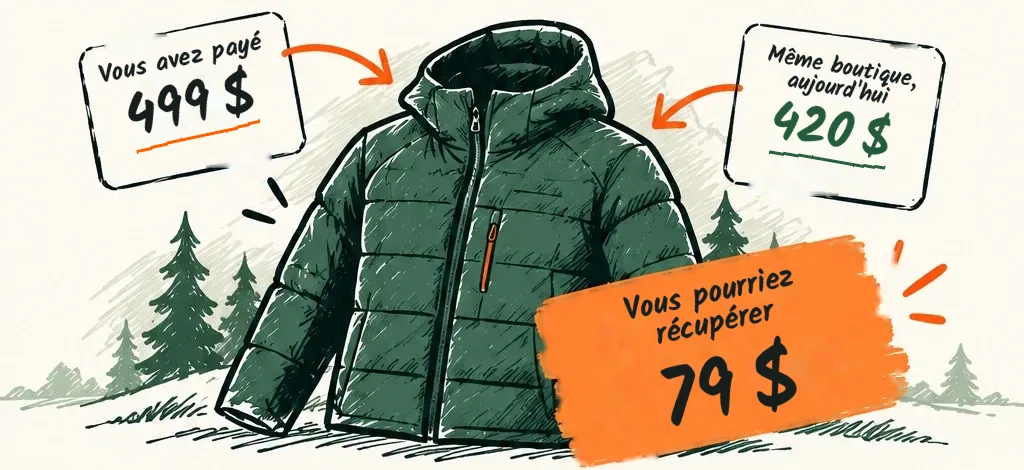
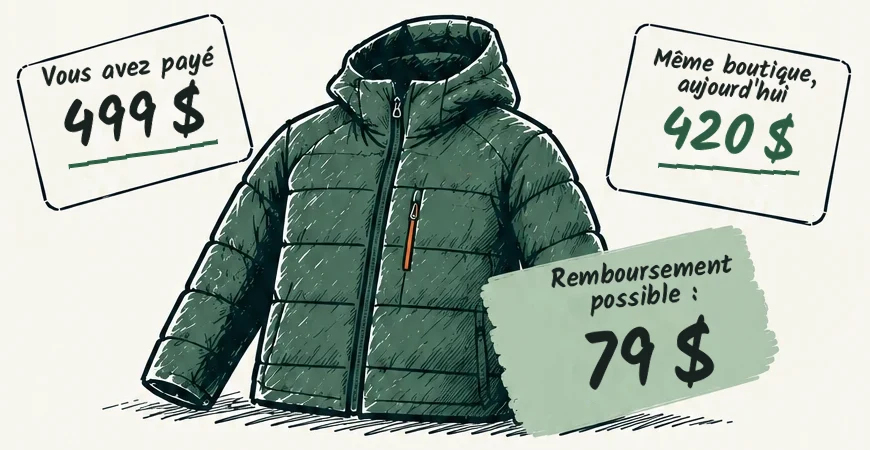
Fox Pro card: Bastien's calm green design (black headline, green notes, orange only on the button)
Claude-Session: https://claude.ai/code/session_01D5jdbyJi3PEbw56iY8fYdy

diff --git a/site/index.html b/site/index.html
@@ -375,7 +375,7 @@ input[type=text],input[type=email],input[type=search]{width:100%;font:inherit;co
 
 /* Friday email card */
 .signup{background:var(--band);color:var(--band-ink);border-radius:14px;padding:18px;margin:0 0 30px}
-.procard .proprice{margin:10px 0 12px;font-size:15px;line-height:1.4}.procard .proprice b{font-size:20px}.signup.procard{max-width:680px;margin-left:auto;margin-right:auto;box-sizing:border-box;--pc:#F6F3EC;--po:#FF5A00;--pk:#17232B;--pg:#25483D;background:var(--pc);color:var(--pk);border:1.5px solid #E6DECB;text-align:center;padding:22px 16px 18px;border-radius:18px}.procard .prok{display:flex;justify-content:center;align-items:center;gap:10px;font:700 13px/1 Inter,var(--body);letter-spacing:.08em;text-transform:uppercase;margin:0 0 12px}.procard .prok img{width:26px;height:26px}.procard .prok .fx{color:var(--pk)}.procard .prok .sep{width:1.5px;height:12px;background:#B9B2A2}.procard .prok .cs{color:var(--po)}.signup.procard h3{font:800 54px/.9 "Barlow Condensed",var(--display);color:var(--pk);margin:0 0 12px;letter-spacing:-.5px;position:relative}.procard h3 em{font-style:normal;color:var(--po);display:table;margin:0 auto;position:relative}@media(max-width:359px){.signup.procard h3{font-size:44px}}@media(min-width:600px){.signup.procard h3{font-size:72px}.procard .prosub{font-size:17px;max-width:30em}}.procard .prosub{color:#2E3A40;font:400 16px/1.45 Inter,var(--body);margin:0 auto 4px;max-width:34em}.procard .prosub u{text-decoration:none;background:linear-gradient(var(--po),var(--po)) 0 100%/100% 2px no-repeat;padding-bottom:1px}.procard .proart{position:relative;margin:6px -10px 6px;aspect-ratio:1024/470;background:var(--pc)}.procard .proart img{width:100%;height:100%;display:block;mix-blend-mode:multiply;-webkit-mask-image:linear-gradient(90deg,transparent,#000 5%,#000 95%,transparent);mask-image:linear-gradient(90deg,transparent,#000 5%,#000 95%,transparent)}.procard .prosteps{list-style:none;padding:0;margin:8px 0 16px;display:grid;grid-template-columns:repeat(3,minmax(0,1fr));align-items:start}.procard .prosteps li{display:grid;grid-template-rows:auto auto auto;justify-items:center;align-content:start;gap:6px;padding:0 8px;border-left:1px solid #E1D9C7}.procard .prosteps li:first-child{border-left:0}.procard .prosteps .ico{width:62px;height:62px;border-radius:50%;background:#EDE5D4;display:grid;place-items:center;margin-bottom:4px;position:relative}.procard .prosteps .ico svg{width:30px;height:30px}.procard .prosteps strong{display:block;font:700 16px/1.15 Inter,var(--body);color:var(--pk);min-height:1.15em}.procard .prosteps p{margin:0;font:400 13.5px/1.35 Inter,var(--body);color:#46525A}@media(max-width:359px){.procard .prosteps{grid-template-columns:minmax(0,1fr);gap:14px}.procard .prosteps li{border-left:0}}.procard .proproof{display:flex;align-items:center;gap:12px;text-align:left;background:#E6EDE3;border-radius:14px;padding:12px 14px;margin:0 0 14px;font:400 14px/1.4 Inter,var(--body);color:var(--pk)}.procard .proproof svg{flex:none;width:30px;height:26px}.procard .proproof b{font-weight:700}.procard #proForm{display:flex;flex-direction:column;gap:8px}.procard #proForm input{width:100%;margin:0;min-height:50px;border:1.5px solid #DDD5C3;border-radius:12px;background:#fff;font:16px Inter,var(--body);padding:0 14px}.procard #proForm button,.procard #proJoin{width:100%;margin:0;min-height:50px;border-radius:12px;background:var(--po);color:var(--pk);font:700 17px Inter,var(--body);border:0}@media(min-width:520px){.procard #proForm{flex-direction:row}.procard #proForm input{flex:1.6}.procard #proForm button{flex:1;width:auto}}.procard .proprice{margin:14px 0 6px;font:400 15px/1.35 Inter,var(--body);color:var(--pk)}.procard .proprice b{font:700 20px Inter,var(--body)}.procard .fine{color:#5E6762;font-size:12.5px;margin:6px 0 0}.procard .fine{line-height:1.5}.procard .fine button{color:var(--pk);font:inherit;padding:0;min-height:0;text-decoration:underline;background:none;border:0}.procard .err{color:#B3261E}.procard #proJoin{width:100%}
+.signup.procard{--pc:#F7F6EE;--pk:#0F1B1F;--pt:#2E3739;--pg:#2E5E4A;--po:#F97637;background:var(--pc);color:var(--pk);border:1px solid #E3E2D6;border-radius:16px;text-align:center;padding:24px 18px 16px;max-width:680px;margin-left:auto;margin-right:auto;box-sizing:border-box}.procard .prok{display:flex;justify-content:center;align-items:center;gap:14px;font:600 12.5px/1 Inter,var(--body);letter-spacing:.2em;text-transform:uppercase;margin:0 0 16px}.procard .prok .fx{color:var(--pk)}.procard .prok .sep{width:1px;height:16px;background:#B9BCB2}.procard .prok .cs{color:var(--pg)}.signup.procard h3{font:800 46px/.98 Inter,var(--body);letter-spacing:-.045em;color:var(--pk);margin:0 0 14px}.procard .prosub{font:400 16px/1.45 Inter,var(--body);color:var(--pt);margin:0 auto 6px;max-width:27em}.procard .proart{margin:4px -6px 10px;aspect-ratio:870/450;background:var(--pc)}.procard .proart img{width:100%;height:100%;display:block}.procard .prosteps{list-style:none;padding:0;margin:4px 0 22px;display:grid;grid-template-columns:repeat(3,minmax(0,1fr));align-items:start}.procard .prosteps li{display:flex;flex-direction:column;align-items:center;gap:6px;padding:0 6px;border-left:1px solid #DCDCD1}.procard .prosteps li:first-child{border-left:0}.procard .prosteps .ico{width:68px;height:68px;border-radius:50%;background:#E5E7DB;display:grid;place-items:center;margin-bottom:6px}.procard .prosteps .ico svg{width:36px;height:36px}.procard .prosteps strong{font:700 17px/1.15 Inter,var(--body);color:var(--pk)}.procard .prosteps p{margin:0;font:400 14px/1.35 Inter,var(--body);color:var(--pt)}@media(max-width:359px){.procard .prosteps{grid-template-columns:minmax(0,1fr);gap:16px}.procard .prosteps li{border-left:0}.signup.procard h3{font-size:40px}}@media(min-width:600px){.signup.procard{padding:30px 32px 18px}.signup.procard h3{font-size:64px}.procard .prosub{font-size:18px}}.procard #proForm{display:flex;flex-direction:column;gap:10px;margin:0}.procard .proin{position:relative;flex:1.7}.procard .proin svg{position:absolute;left:14px;top:50%;width:22px;height:22px;transform:translateY(-50%);pointer-events:none}.procard #proForm input{width:100%;margin:0;box-sizing:border-box;min-height:52px;border:1px solid #CFCFC6;border-radius:10px;background:#FCFCF9;font:16px Inter,var(--body);padding:0 14px 0 48px;color:var(--pk)}.procard #proForm button,.procard #proJoin{width:100%;margin:0;min-height:52px;border:0;border-radius:10px;background:var(--po);color:var(--pk);font:700 17px Inter,var(--body)}@media(min-width:520px){.procard #proForm{flex-direction:row}.procard #proForm button{flex:1;width:auto}}.procard .proprice{margin:18px 0 4px;font:400 14.5px/1.45 Inter,var(--body);color:var(--pt)}.procard .proprice b{display:block;font:700 18px/1.3 Inter,var(--body);color:var(--pk)}.procard .fine{color:#6B7273;font-size:12.5px;line-height:1.5;margin:8px 0 0}.procard .fine button{font:inherit;color:var(--pt);padding:0;min-height:0;background:none;border:0;text-decoration:underline}.procard .err{color:#B3261E}.procard .protag{display:flex;align-items:center;gap:12px;margin:18px 0 2px;font:500 11px/1 Inter,var(--body);letter-spacing:.22em;text-transform:uppercase;color:#44514D}.procard .protag i{flex:1;height:1px;background:#C3C7BE}.procard .protag svg{width:34px;height:30px;flex:none}
 .rcwrap{position:relative}.rcsug{display:flex;flex-direction:column;background:var(--card);border-radius:10px;overflow:hidden;margin-top:4px}.rcsug:empty{display:none}.rcsug button{all:unset;cursor:pointer;padding:11px 14px;font:500 15px/1.25 var(--body);color:var(--ink);border-top:1px solid var(--line)}.rcsug button:first-child{border-top:0}.rcsug button:active,.rcsug button:hover{background:var(--mist)}
 .runcard #suForm{flex-direction:column}.runcard #suForm input,.runcard #suForm .primary{flex:none;width:100%}.runcard #suForm .primary{min-height:48px;line-height:1.15;padding:8px 16px}
 .signup h3{font:800 24px/1.1 var(--display);margin:0 0 4px}
@@ -891,7 +891,7 @@ en:{
   junkHint:"Not there after a minute? Check Junk or Promotions (Outlook and Hotmail often file us there) and mark it \"Not junk\".",
   resend:"Send it again",resendFail:"Couldn't send just now. Try again in a minute.",resent:"Sent again. Give it a minute.",resendWait:"Just sent. Give it a minute, then check Junk.",
   otherEmail:"Use a different email",getDeals:"Get deals like these every Friday",
-  getDealsTxt:"One email, Friday morning, only gear on sale in your sizes.",perksTitle:"Free with your email",proH:"Fox Pro · coming soon",pro1:"Money back after you buy",pro2:"Phone app alerts the moment we see a watched item drop in your size",pro3:"No limit on your watchlist: follow whole models and brands",proSub:"Many stores refund the difference if they lower the price within 10 to 30 days. Fox Pro <u>watches it for you</u>.",proSoon:"Coming soon",proH1:"Money back<em>after you buy.</em>",proS1h:"You buy",proS1:"Shop like usual.",proS2h:"We watch",proS2:"Daily price checks.",proS3h:"You claim",proS3:"Get refund instructions.",proEx:"Example",proIt:"Your down jacket",proItS:"size M · bought Nov 3",proPaid:"You paid",proNow:"Same store, today",proOwe:"You're owed",proLeft:"11 days left to claim it",proProof:"In October, <b>1 in 13 items over $100 got $10+ cheaper</b> within 2 weeks. Typical drop: <b>$34</b>.",proAlso:"Also in Pro:",proA:"phone alerts the moment a watched item drops · no limit on your watchlist",proBack1:"You could get",proBack2:"$79 back",proArtAlt:"Example: you paid $499, the same store sells it for $420 today, you could get $79 back.",proPrice:(m,y)=>`$${m}/month or $${y}/year`,proFound:"Founding price, yours as long as you stay.",proJoin:"Get early access →",proFine:"No payment now. We'll email you when it opens.",proFineNew:"No payment now. We'll email you when it opens, plus the Friday deals in your size.",proThanks:"You're on the Fox Pro waitlist. We'll email you when it opens.",rcH:"What do you run in?",rcTxt:"Pick your shoe: we'll email you when it drops in your size. Plus your best deals every Friday.",rcPh:"Your shoe, e.g. Pegasus 41",rcGo:"Email me when it drops",perk1:"An alert when gear you heart drops in price",perk2:"Your best deals every Friday morning",perk3:"Your sizes and hearts on all your devices",noThanks:"No thanks",peekTitle:n=>`${n} deals in your size today`,peekTxt:"Add your email to see them all, get price-drop alerts on deals you heart, and the best ones every Friday.",peekG:"or continue with Google",email:"Email",signUp:"Sign up",
+  getDealsTxt:"One email, Friday morning, only gear on sale in your sizes.",perksTitle:"Free with your email",proH:"Fox Pro · coming soon",pro1:"Money back after you buy",pro2:"Phone app alerts the moment we see a watched item drop in your size",pro3:"No limit on your watchlist: follow whole models and brands",proSub:"Some retailers refund price drops after purchase. Fox Pro watches for them so you don't have to.",proTag:"Outfox full price",proSoon:"Coming soon",proH1:"Money back<br>after you buy.",proS1h:"You buy",proS1:"Shop like usual.",proS2h:"We watch",proS2:"Daily price checks.",proS3h:"You claim",proS3:"Get refund instructions.",proEx:"Example",proIt:"Your down jacket",proItS:"size M · bought Nov 3",proPaid:"You paid",proNow:"Same store, today",proOwe:"You're owed",proLeft:"11 days left to claim it",proProof:"In October, <b>1 in 13 items over $100 got $10+ cheaper</b> within 2 weeks. Typical drop: <b>$34</b>.",proAlso:"Also in Pro:",proA:"phone alerts the moment a watched item drops · no limit on your watchlist",proBack1:"You could get",proBack2:"$79 back",proArtAlt:"Example: you paid $499, the same store sells it for $420 today, potential refund $79.",proPrice:(m,y)=>`$${m}/month or $${y}/year`,proFound:"Founding price, yours as long as you stay.",proJoin:"Get early access →",proFine:"No payment now. We'll email you when it opens.",proFineNew:"No payment now. We'll email you when it opens, plus the Friday deals in your size.",proThanks:"You're on the Fox Pro waitlist. We'll email you when it opens.",rcH:"What do you run in?",rcTxt:"Pick your shoe: we'll email you when it drops in your size. Plus your best deals every Friday.",rcPh:"Your shoe, e.g. Pegasus 41",rcGo:"Email me when it drops",perk1:"An alert when gear you heart drops in price",perk2:"Your best deals every Friday morning",perk3:"Your sizes and hearts on all your devices",noThanks:"No thanks",peekTitle:n=>`${n} deals in your size today`,peekTxt:"Add your email to see them all, get price-drop alerts on deals you heart, and the best ones every Friday.",peekG:"or continue with Google",email:"Email",signUp:"Sign up",
   signupFine:'We\'ll email you to confirm. Unsubscribe with one tap. <a href="privacy.html">Privacy</a>',
   badEmail:"That email doesn't look right.",signupFail:m=>`Couldn't sign you up just now: ${m}`,
   emailOn:e=>`Friday email on for ${e} · <button type="button" id="stopEmail">Stop it</button>`,
@@ -1005,7 +1005,7 @@ fr:{
   junkHint:"Pas reçu après une minute? Vérifiez les courriels indésirables ou Promotions (Outlook et Hotmail nous y classent souvent) et indiquez « Pas un courriel indésirable ».",
   resend:"Renvoyer",resendFail:"Envoi impossible pour l'instant. Réessayez dans une minute.",resent:"Renvoyé. Laissez-lui une minute.",resendWait:"Tout juste envoyé. Donnez-lui une minute, puis vérifiez les indésirables.",
   otherEmail:"Utiliser un autre courriel",getDeals:"Recevez des aubaines comme celles-ci chaque vendredi",
-  getDealsTxt:"Un courriel le vendredi matin, seulement des articles en solde dans vos tailles.",perksTitle:"Gratuit avec votre courriel",proH:"Fox Pro · bientôt",pro1:"De l'argent remis après l'achat",pro2:"Alertes dans l'appli sur votre téléphone dès qu'un article suivi baisse",pro3:"Liste de suivi sans limite : suivez des modèles et des marques entiers",proSub:"Bien des boutiques remboursent la différence si elles baissent le prix dans les 10 à 30 jours. Fox Pro <u>surveille pour vous</u>.",proSoon:"Bientôt",proH1:"De l'argent remis<em>après l'achat.</em>",proS1h:"Vous achetez",proS1:"Comme d'habitude.",proS2h:"On surveille",proS2:"Prix vérifiés chaque jour.",proS3h:"Vous réclamez",proS3:"Instructions de remboursement fournies.",proEx:"Exemple",proIt:"Votre manteau en duvet",proItS:"taille M · acheté le 3 nov.",proPaid:"Vous avez payé",proNow:"Même boutique, aujourd'hui",proOwe:"On vous doit",proLeft:"Encore 11 jours pour le réclamer",proProof:"En octobre, <b>1 article de plus de 100 $ sur 13 a baissé de 10 $ ou plus</b> en 2 semaines. Baisse typique : <b>34 $</b>.",proAlso:"Aussi dans Pro :",proA:"alertes sur votre téléphone dès qu'un article suivi baisse · liste de suivi sans limite",proBack1:"Vous pourriez récupérer",proBack2:"79 $",proArtAlt:"Exemple : vous avez payé 499 $, la même boutique le vend 420 $ aujourd'hui, vous pourriez récupérer 79 $.",proPrice:(m,y)=>`${m} $/mois ou ${y} $/an`,proFound:"Prix fondateur, garanti tant que vous restez.",proJoin:"Accès anticipé →",proFine:"Aucun paiement maintenant. On vous écrit à l'ouverture.",proFineNew:"Aucun paiement maintenant. On vous écrit à l'ouverture, avec les aubaines du vendredi dans votre taille.",proThanks:"Vous êtes sur la liste d'attente de Fox Pro. On vous écrit à l'ouverture.",rcH:"Vous courez avec quoi?",rcTxt:"Choisissez votre chaussure : on vous écrit quand elle baisse à votre taille. En prime, vos meilleures aubaines chaque vendredi.",rcPh:"Votre chaussure (ex. Pegasus 41)",rcGo:"M'avertir d'une baisse",perk1:"Une alerte quand un coup de cœur baisse de prix",perk2:"Vos meilleures aubaines chaque vendredi matin",perk3:"Vos tailles et vos coups de cœur sur tous vos appareils",noThanks:"Non merci",peekTitle:n=>`${n} aubaines dans vos tailles aujourd'hui`,peekTxt:"Entrez votre courriel pour toutes les voir, être averti des baisses de prix sur vos coups de cœur et recevoir les meilleures chaque vendredi.",peekG:"ou continuer avec Google",email:"Courriel",signUp:"M'abonner",
+  getDealsTxt:"Un courriel le vendredi matin, seulement des articles en solde dans vos tailles.",perksTitle:"Gratuit avec votre courriel",proH:"Fox Pro · bientôt",pro1:"De l'argent remis après l'achat",pro2:"Alertes dans l'appli sur votre téléphone dès qu'un article suivi baisse",pro3:"Liste de suivi sans limite : suivez des modèles et des marques entiers",proSub:"Certaines boutiques remboursent la différence si le prix baisse après l'achat. Fox Pro surveille pour vous.",proTag:"Flairez les aubaines",proSoon:"Bientôt",proH1:"De l'argent remis<br>après l'achat.",proS1h:"Vous achetez",proS1:"Comme d'habitude.",proS2h:"On surveille",proS2:"Prix vérifiés chaque jour.",proS3h:"Vous réclamez",proS3:"Instructions de remboursement fournies.",proEx:"Exemple",proIt:"Votre manteau en duvet",proItS:"taille M · acheté le 3 nov.",proPaid:"Vous avez payé",proNow:"Même boutique, aujourd'hui",proOwe:"On vous doit",proLeft:"Encore 11 jours pour le réclamer",proProof:"En octobre, <b>1 article de plus de 100 $ sur 13 a baissé de 10 $ ou plus</b> en 2 semaines. Baisse typique : <b>34 $</b>.",proAlso:"Aussi dans Pro :",proA:"alertes sur votre téléphone dès qu'un article suivi baisse · liste de suivi sans limite",proBack1:"Vous pourriez récupérer",proBack2:"79 $",proArtAlt:"Exemple : vous avez payé 499 $, la même boutique le vend 420 $ aujourd'hui, remboursement possible de 79 $.",proPrice:(m,y)=>`${m} $/mois ou ${y} $/an`,proFound:"Prix fondateur, garanti tant que vous restez.",proJoin:"Accès anticipé →",proFine:"Aucun paiement maintenant. On vous écrit à l'ouverture.",proFineNew:"Aucun paiement maintenant. On vous écrit à l'ouverture, avec les aubaines du vendredi dans votre taille.",proThanks:"Vous êtes sur la liste d'attente de Fox Pro. On vous écrit à l'ouverture.",rcH:"Vous courez avec quoi?",rcTxt:"Choisissez votre chaussure : on vous écrit quand elle baisse à votre taille. En prime, vos meilleures aubaines chaque vendredi.",rcPh:"Votre chaussure (ex. Pegasus 41)",rcGo:"M'avertir d'une baisse",perk1:"Une alerte quand un coup de cœur baisse de prix",perk2:"Vos meilleures aubaines chaque vendredi matin",perk3:"Vos tailles et vos coups de cœur sur tous vos appareils",noThanks:"Non merci",peekTitle:n=>`${n} aubaines dans vos tailles aujourd'hui`,peekTxt:"Entrez votre courriel pour toutes les voir, être averti des baisses de prix sur vos coups de cœur et recevoir les meilleures chaque vendredi.",peekG:"ou continuer avec Google",email:"Courriel",signUp:"M'abonner",
   signupFine:'On vous écrit pour confirmer. Désabonnement en un clic. <a href="privacy.html">Confidentialité</a>',
   badEmail:"Ce courriel ne semble pas valide.",signupFail:m=>`Impossible de vous abonner pour l'instant : ${m}`,
   emailOn:e=>`Courriel du vendredi activé pour ${e} · <button type="button" id="stopEmail">L'arrêter</button>`,
@@ -2564,20 +2564,21 @@ const proArm=()=>ANA.arm("pro"),proPrices=()=>proArm()==="B"?[5,49]:[3,29];
 function proHTML(member){
   if(!proOn())return "";const [m,y]=proPrices();
   if(!proSeen){proSeen=true;ana("signup-step",`pro-view|${proArm()}`)}
-  const mo=v=>LANG==="fr"?v+" $":"$"+v;
-  return `<section class="signup procard" aria-labelledby="proTitle"><div class="prok"><img src="favicon.svg" alt="" width="26" height="26"><span class="fx">Fox Pro</span><i class="sep"></i><span class="cs">${t("proSoon")}</span></div>
+  const ic=(d,o)=>`<span class="ico"><svg viewBox="0 0 32 32" fill="none" stroke="#0F1B1F" stroke-width="2.2" stroke-linecap="round" stroke-linejoin="round">${d}${o?o.replace(/STROKE/g,'stroke="#F97637"'):""}</svg></span>`;
+  const tree=`<svg viewBox="0 0 34 30" aria-hidden="true"><path d="M11 2 4 13h3.5L2 22h7v6h4v-6h7l-5.5-9H18z" fill="#2E5E4A"/><path d="M25 9l-5 8h2.5L19 23h5v5h2.5v-5h5l-3.5-6H31z" fill="#2E5E4A"/></svg>`;
+  return `<section class="signup procard" aria-labelledby="proTitle"><div class="prok"><span class="fx">Fox Pro</span><i class="sep"></i><span class="cs">${t("proSoon")}</span></div>
     <h3 id="proTitle">${t("proH1")}</h3>
     <p class="prosub">${t("proSub")}</p>
-    <div class="proart" role="img" aria-label="${esc(t("proArtAlt"))}"><img src="img/pro-jacket${LANG==="fr"?"-fr":""}.webp" alt="" width="1024" height="470" loading="lazy"></div>
-    <ol class="prosteps"><li><span class="ico"><svg viewBox="0 0 24 24" fill="none" stroke="#17232B" stroke-width="1.9" stroke-linecap="round" stroke-linejoin="round"><path d="M2.5 4h2.3l2.3 10.4a1.4 1.4 0 0 0 1.4 1.1h8.8a1.4 1.4 0 0 0 1.4-1L21 7.5H6"/><circle cx="9.5" cy="19.5" r="1.4" stroke="#FF5A00"/><circle cx="17" cy="19.5" r="1.4" stroke="#FF5A00"/></svg></span><strong>${t("proS1h")}</strong><p>${t("proS1")}</p></li><li><span class="ico"><svg viewBox="0 0 24 24" fill="none" stroke="#17232B" stroke-width="1.9" stroke-linecap="round" stroke-linejoin="round"><circle cx="10.5" cy="10.5" r="6.5"/><path d="M15.5 15.5 21 21"/></svg></span><strong>${t("proS2h")}</strong><p>${t("proS2")}</p></li><li><span class="ico"><svg viewBox="0 0 24 24" fill="none" stroke="#17232B" stroke-width="1.9" stroke-linecap="round" stroke-linejoin="round"><path d="M6 16v-5a6 6 0 0 1 12 0v5l1.6 2H4.4z"/><path d="M10 20.5a2 2 0 0 0 4 0" stroke="#FF5A00"/></svg></span><strong>${t("proS3h")}</strong><p>${t("proS3")}</p></li></ol>
-    ${COUNTRY==="us"?"":`<p class="proproof"><svg viewBox="0 0 30 26"><rect x="1" y="14" width="7" height="11" rx="1" fill="#25483D"/><rect x="11.5" y="8" width="7" height="17" rx="1" fill="#17232B"/><rect x="22" y="1" width="7" height="24" rx="1" fill="#FF5A00"/></svg><span>${t("proProof")}</span></p>`}
+    <div class="proart" role="img" aria-label="${esc(t("proArtAlt"))}"><img src="img/pro-jacket${LANG==="fr"?"-fr":""}.webp" alt="" width="870" height="450" loading="lazy"></div>
+    <ol class="prosteps"><li>${ic('<path d="M3 5h3.5l3 13.5h14L27 9H8"/>','<circle cx="12" cy="24.5" r="1.8" STROKE/><circle cx="21.5" cy="24.5" r="1.8" STROKE/>')}<strong>${t("proS1h")}</strong><p>${t("proS1")}</p></li><li>${ic('<circle cx="13.5" cy="13.5" r="8.5"/><path d="M20 20l7.5 7.5"/>')}<strong>${t("proS2h")}</strong><p>${t("proS2")}</p></li><li>${ic('<path d="M8 21v-7a8 8 0 0 1 16 0v7l2.5 3h-21z"/><path d="M16 3v2.5"/>','<path d="M13.5 27.5a2.5 2.5 0 0 0 5 0" STROKE/>')}<strong>${t("proS3h")}</strong><p>${t("proS3")}</p></li></ol>
     ${member?`<button class="primary" type="button" id="proJoin">${t("proJoin")}</button>`
       :`<form id="proForm" novalidate><label for="proEmail" class="hidden">${t("email")}</label>
-      <input id="proEmail" type="email" autocomplete="email" inputmode="email" placeholder="you@example.com" value="${esc(state.email)}" required>
+      <span class="proin"><svg viewBox="0 0 24 24" fill="none" stroke="#6E7774" stroke-width="1.6" aria-hidden="true"><rect x="3" y="5.5" width="18" height="13" rx="1.5"/><path d="m3.5 6.5 8.5 6.5 8.5-6.5"/></svg><input id="proEmail" type="email" autocomplete="email" inputmode="email" placeholder="you@example.com" value="${esc(state.email)}" required></span>
       <button class="primary" type="submit">${t("proJoin")}</button></form>`}
     ${proErr?`<p class="err" role="alert">${esc(proErr)}</p>`:""}
-    <p class="proprice"><b>${t("proPrice",m,y)}</b><br>${t("proFound")}</p>
-    <p class="fine">${t(member?"proFine":"proFineNew")} <button type="button" id="proNo" class="linkbtn">${t("noThanks")}</button></p></section>`;
+    <p class="proprice"><b>${t("proPrice",m,y)}</b>${t("proFound")}</p>
+    <p class="fine">${t(member?"proFine":"proFineNew")} <button type="button" id="proNo" class="linkbtn">${t("noThanks")}</button></p>
+    <div class="protag" aria-hidden="true">${tree}<i></i><span>${t("proTag")}</span><i></i>${tree}</div></section>`;
 }
 function signupHTML(){
   if(sub&&sub.active)return proHTML(true);
